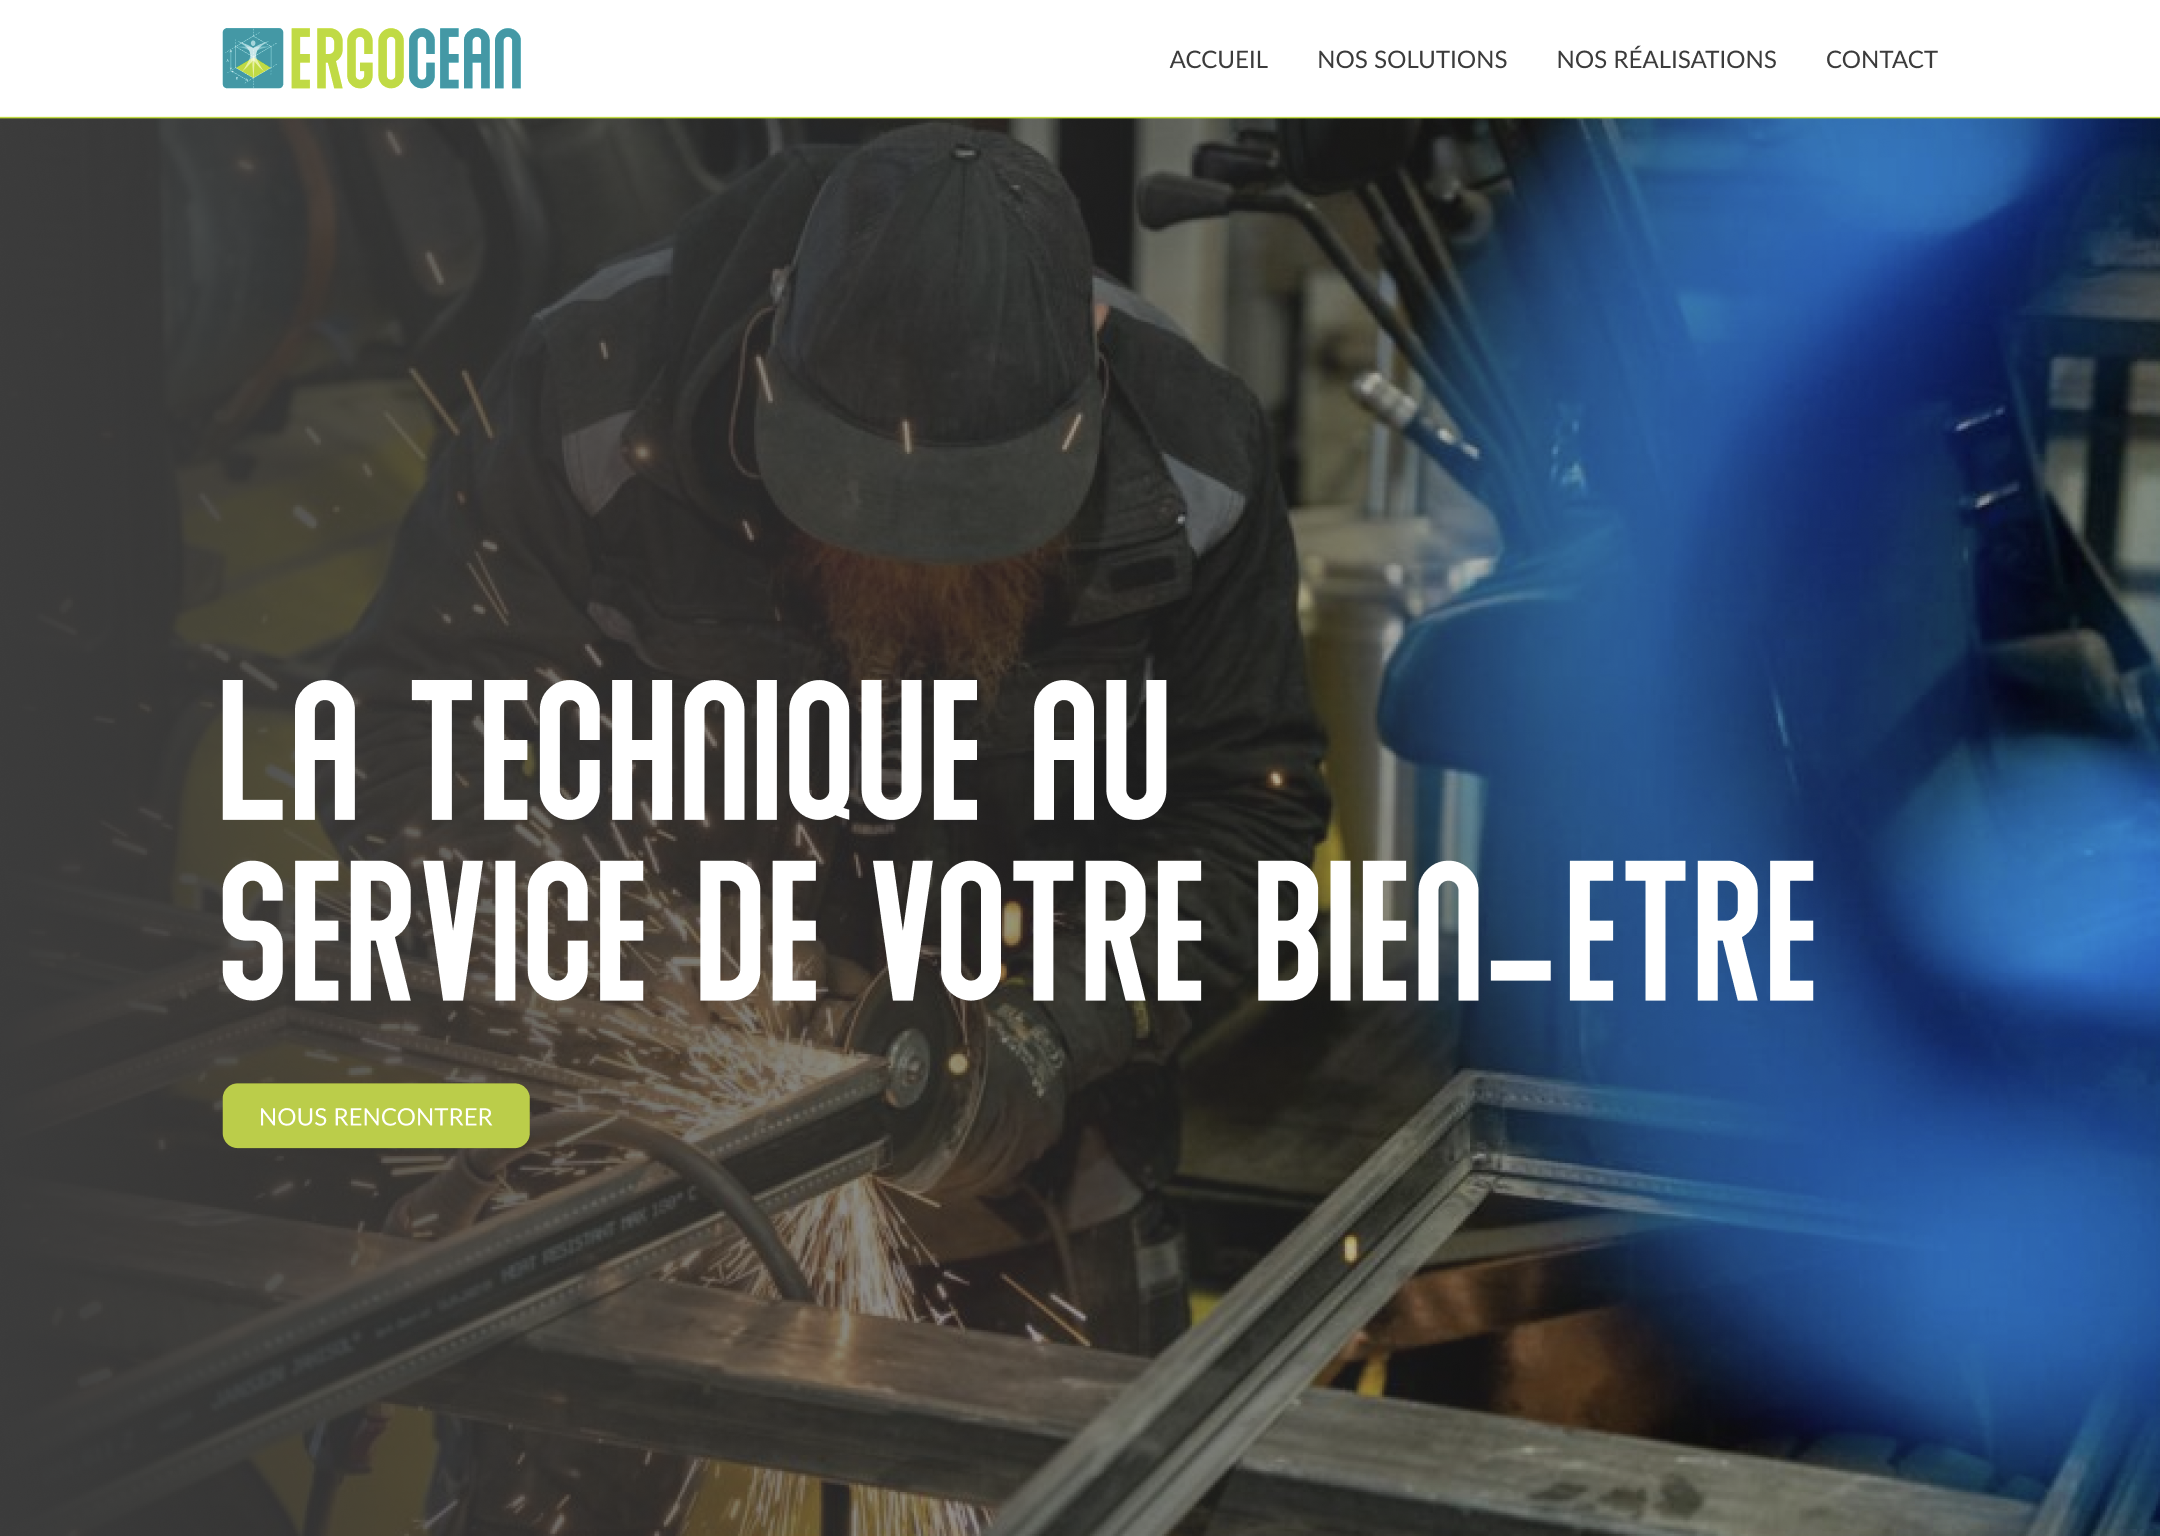
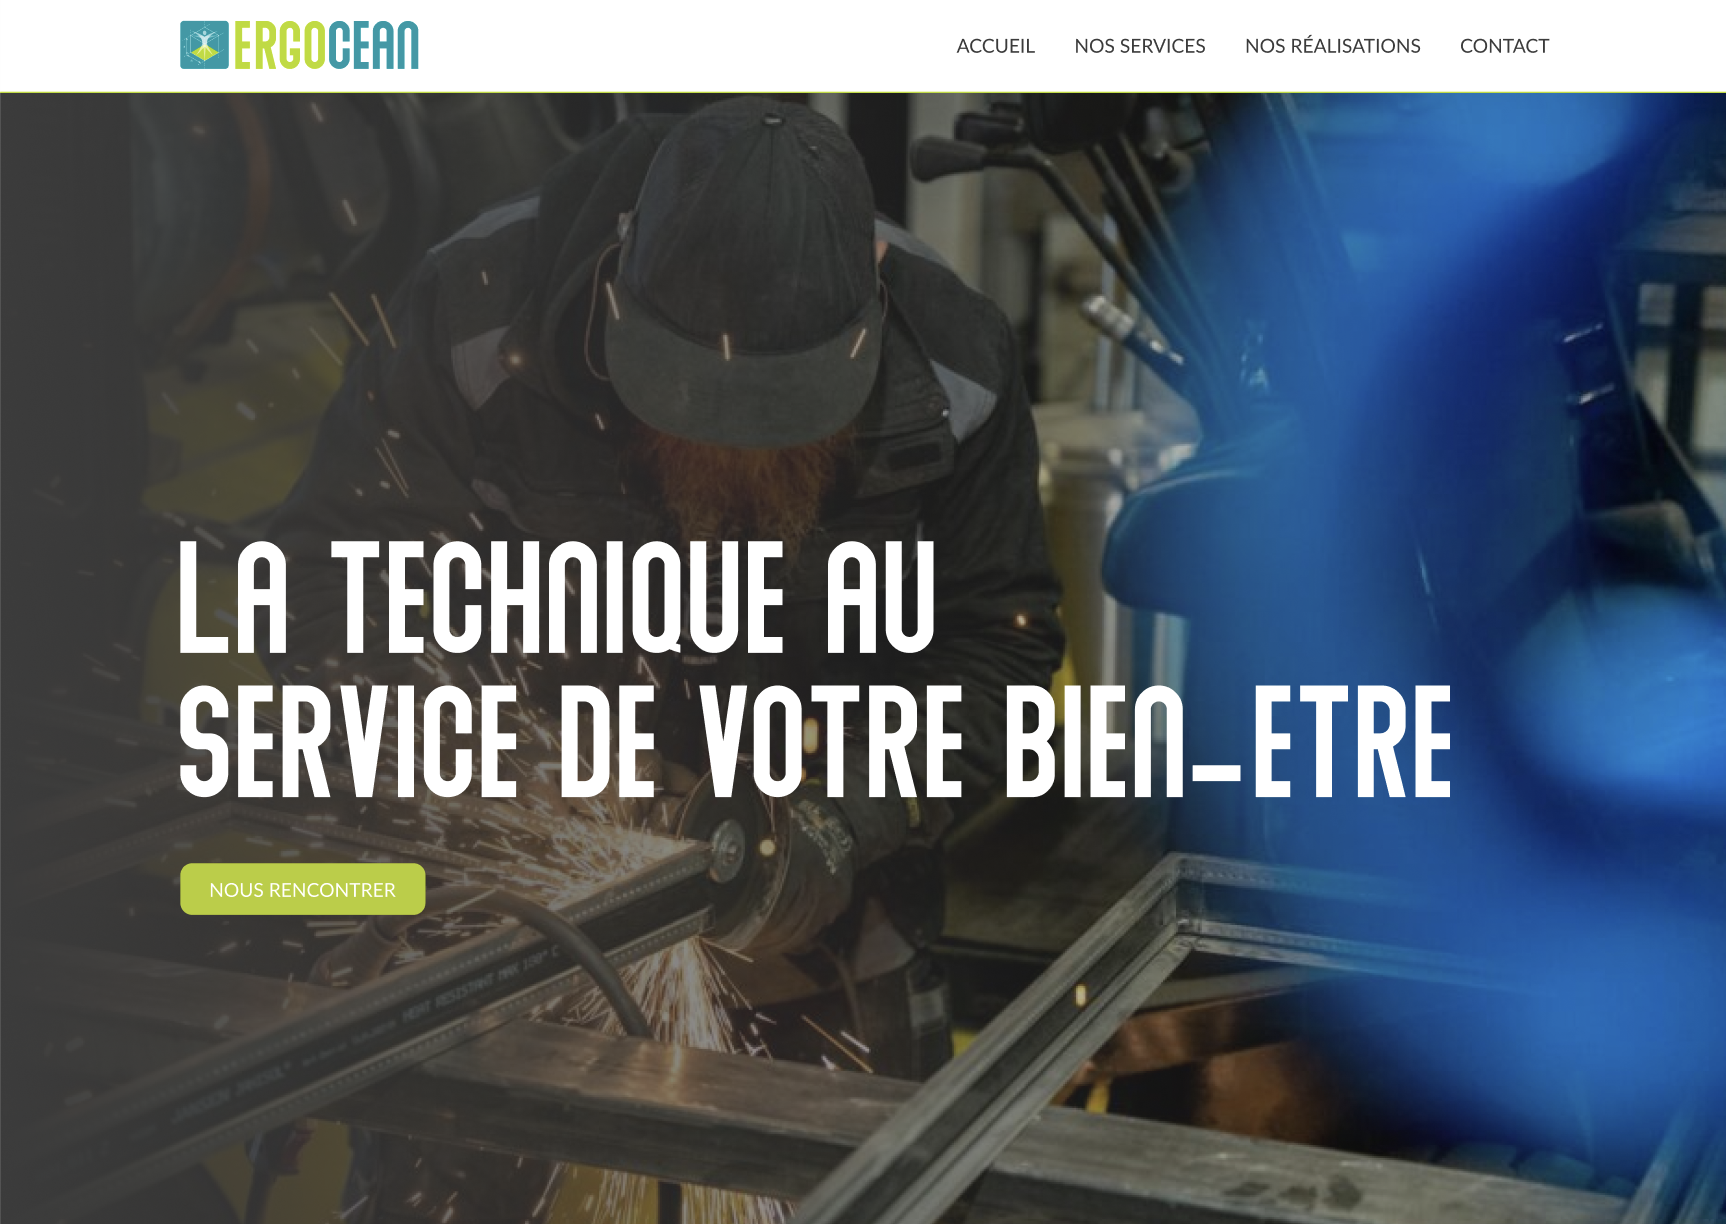
dzdz

diff --git a/src/content/blog/ergocean.md b/src/content/blog/ergocean.md
@@ -5,12 +5,14 @@ tag: ["UI"]
 description: "Durant ma période en entreprise, j'ai conçu une maquette pour ERGOCEAN, une entreprise spécialisé dans la conception de produits ergonomiques au travail comme des aménagements pour les espaces de préparation de commandes, des chaises ergonomiques pour une bonne posture au travail etc... Le client n'avait pas d'attentes particulières mais j'ai souhaité reprendre la forme du logo pour l'intégrer dans de petites animations pour rendre le site vitrine légèrement plus intuitif."
 pubDate: 'Mar 14 2025'
 heroImage:
-    - /assets/ergocean/cover.png
+    - /assets/ergocean/maquette.jpg
 ---
 
+<div class="w-full h-fit bg-red-500">
 <iframe 
     class="w-full h-fit"
     style="border: none;" 
     src="https://www.figma.com/embed?embed_host=figma&url=https://www.figma.com/proto/CToroNkWDs935W5eAulJqZ/ERGOCEAN?page-id=93%3A1229&node-id=93-1357&viewport=678%2C178%2C0.14&t=y72POssiEjyqbOA1-1&scaling=min-zoom&content-scaling=fixed&starting-point-node-id=93%3A1357&show-proto-sidebar=1" 
     allowfullscreen>
 </iframe>   
+</div>
